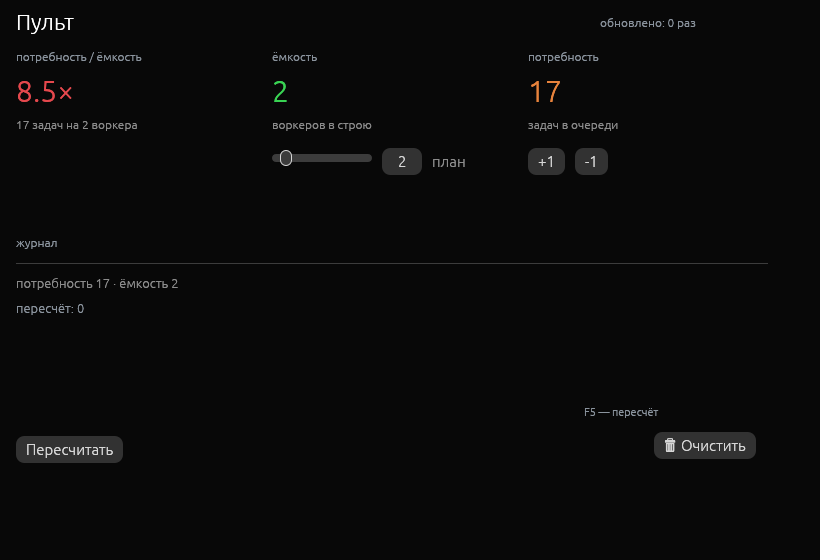
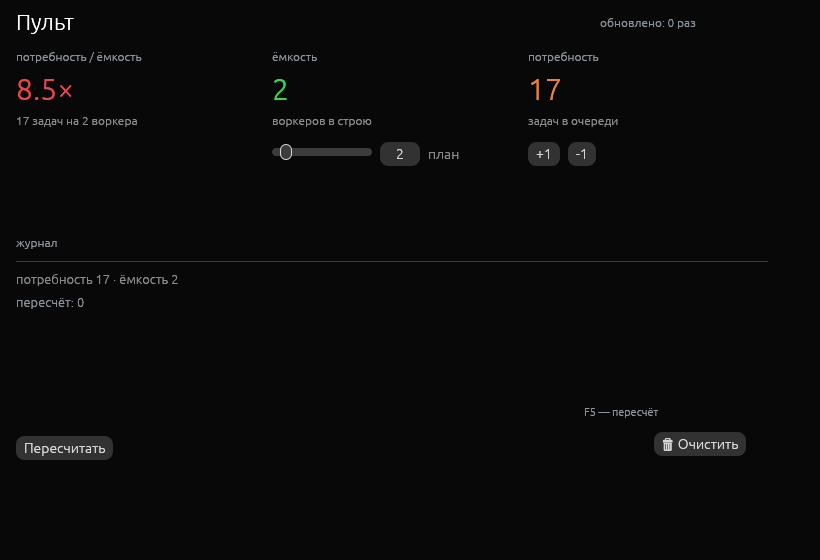
дизайн: единые токены у демо + docs/DESIGN.md
Пульт и Краски приведены к одному набору: theme dark accent #388bfd, шрифт 14,
spacing 8, радиус 8, внешний pad 10. Направление зафиксировано как тёмное
инструментальное, шкала отступов 4/8/12/16, кегли 12/14/20/30, контраст
текста на акценте считается по яркости.

diff --git a/docs/DESIGN.md b/docs/DESIGN.md
@@ -1,0 +1,51 @@
+# Токены дизайна lazr
+
+Направление: **тёмный инструментальный** (вариант 1). Одна тема на все демо — расхождение токенов считается
+дефектом, как и расхождение поведения.
+
+## Отступы (шкала 4)
+
+| Токен | Значение | Где |
+|---|---|---|
+| `pad` контейнера | 10 | внешняя рамка экрана |
+| `spacing` темы | 8 | между строками и контролами |
+| внутренний отступ карточки | 12 | `:pad` у карточек «Пул» |
+| зазор группы | 16 | между блоками действий |
+
+Других отступов нет: 6, 14, 18 — не токены, а случайность.
+
+## Кегли
+
+| Роль | Размер |
+|---|---|
+| основной текст, кнопки | 14 |
+| мелкие подписи, статус | 12 |
+| заголовок экрана | 20 |
+| крупное число в карточке | 30 |
+
+## Цвета
+
+| Роль | Значение |
+|---|---|
+| фон окна | `Visuals::dark()` (egui) |
+| акцент / выделение | `#388bfd` |
+| текст на акценте | по яркости акцента: тёмный на светлом, белый на тёмном |
+| основной текст | `#e8eef7` |
+| второстепенный | `#8b949e` |
+| статус | `#69b4ff` |
+| опасность | `#e5484d` |
+| успех | `#39d353` |
+
+## Радиус и контраст
+
+- Радиус: `8` для контролов и карточек, `2` для холста (там важна рамка, а не скругление).
+- Основной текст — не ниже 4.5:1 к фону; второстепенный — не ниже 3:1.
+- Текст на акценте выбирается вычислением яркости, а не «на глаз»: иначе выделенный инструмент
+  превращается в пустую синюю плашку (так и было, пока не починили).
+
+## Правила
+
+1. Новый контрол берёт токены, а не свои числа.
+2. Проверка целостности — часть состязательного прогона (`adversarial-ui-test`): случайный кегль, цвет вне
+   палитры и отступ не из шкалы считаются дефектом.
+3. Тема живёт в одной строке модели: смена направления — это правка `theme`, а не переписывание экранов.
